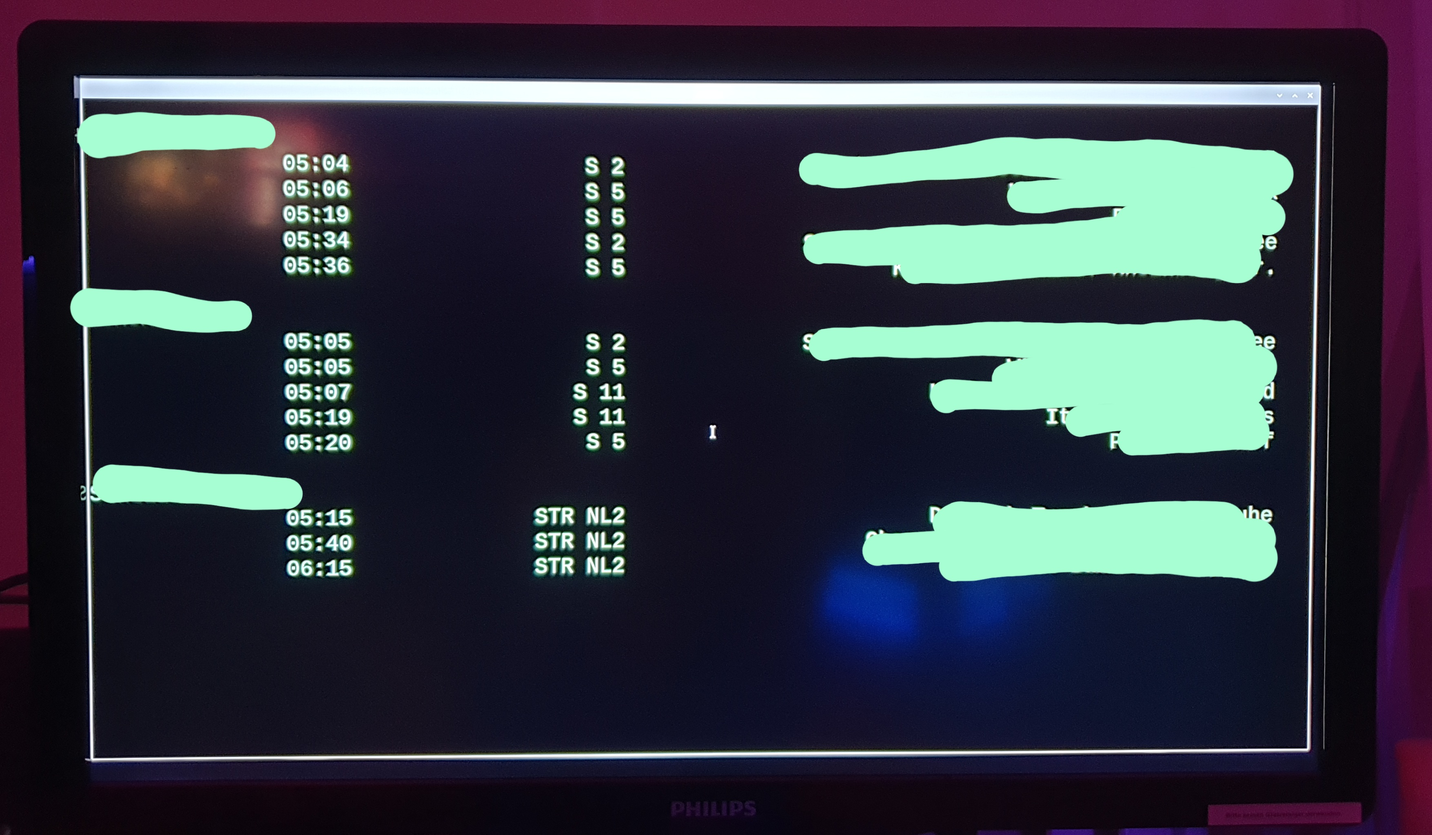
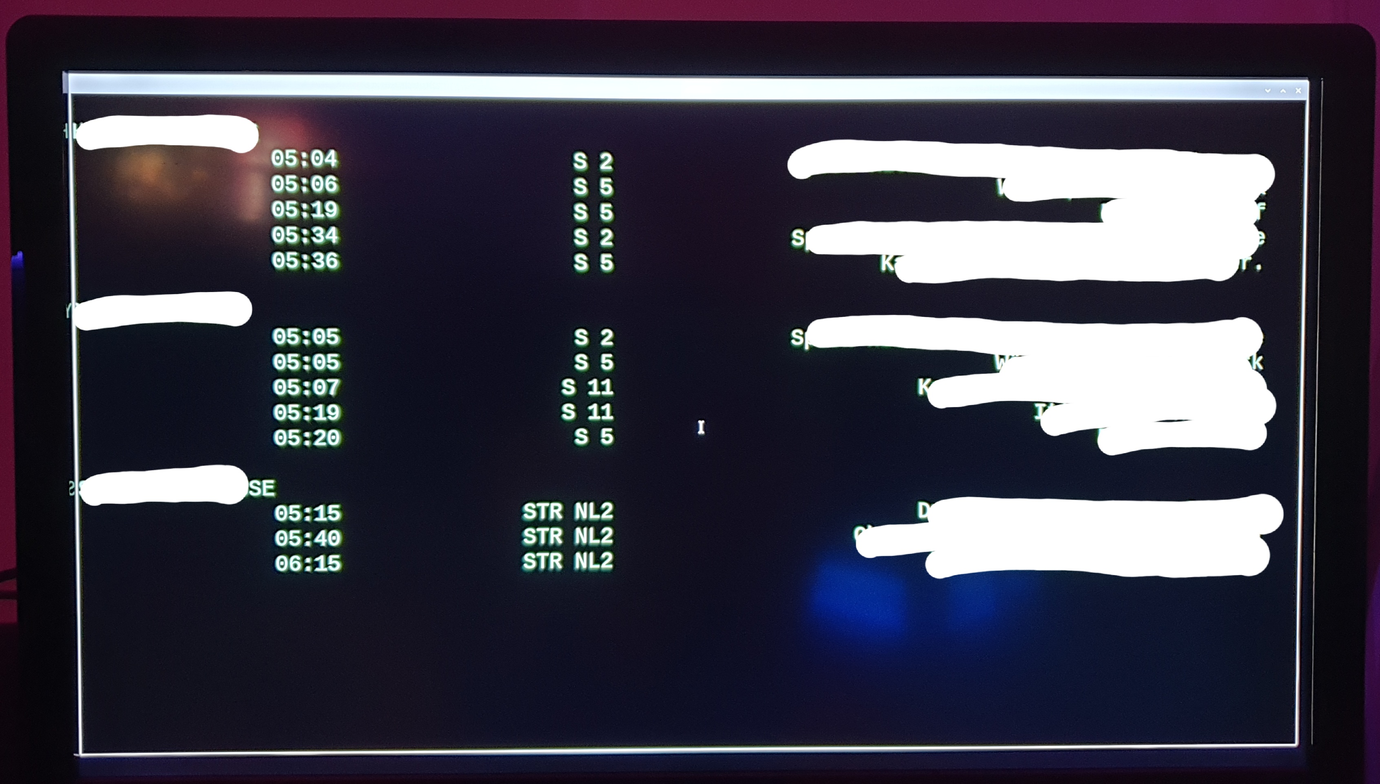
Add timetable screenshot

diff --git a/pages/posts/timetable.js b/pages/posts/timetable.js
@@ -14,12 +14,13 @@ const Timetable = () => {
 			<Container>
 				<Title>Timetable</Title>
 				<P>
-					This post explains how to make you own timtable display.
+					This post explains how to make your own timtable display.
 					In principle it is a Raspberry Pi running a Python program
 					which is connected to a monitor. It can be useful to have a
 					display showing public transport connections close to your
 					office for example. Follow this to make your own display table.
 					<br />
+					<WorkImage src='/images/posts/timetable/timetable-berlin.jpg' />
 				</P>
 				<br />
 				<Heading as="h2" fontSize={17}>

diff --git a/pages/posts.js b/pages/posts.js
@@ -8,7 +8,7 @@ import thumbDevAsLife from '../public/images/contents/devaslife.webp'
 import rambalacNagoya from '../public/images/contents/rambalac_nagoya.webp'
 import thumbErgoDash from '../public/images/posts/caseAssembled.jpg'
 import thumbStableDiffusion from '../public/images/posts/stable-diffusion/highTechDystopia4.jpg'
-import thumbTimetable from '../public/images/posts/timetable/timetable-showcase.jpg'
+import thumbTimetable from '../public/images/posts/timetable/timetable-berlin.jpg'
 
 const Posts = () => (
     <Layout title="">
